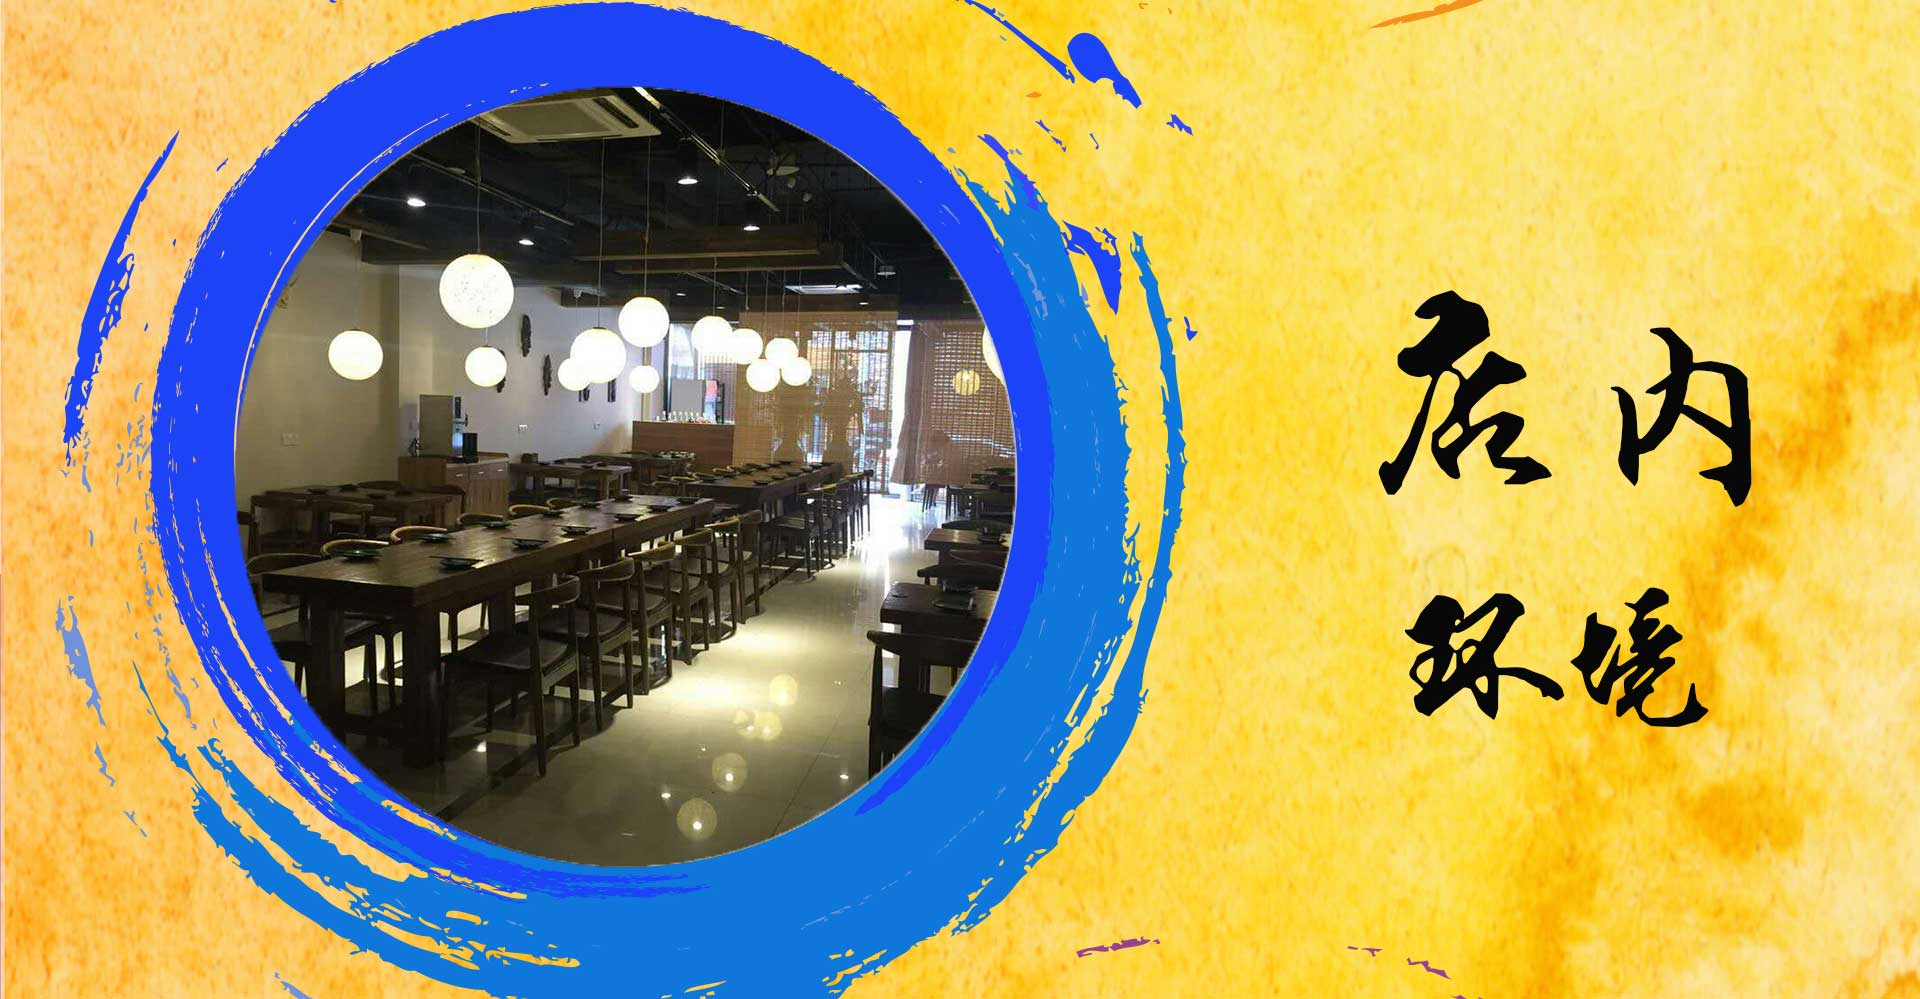
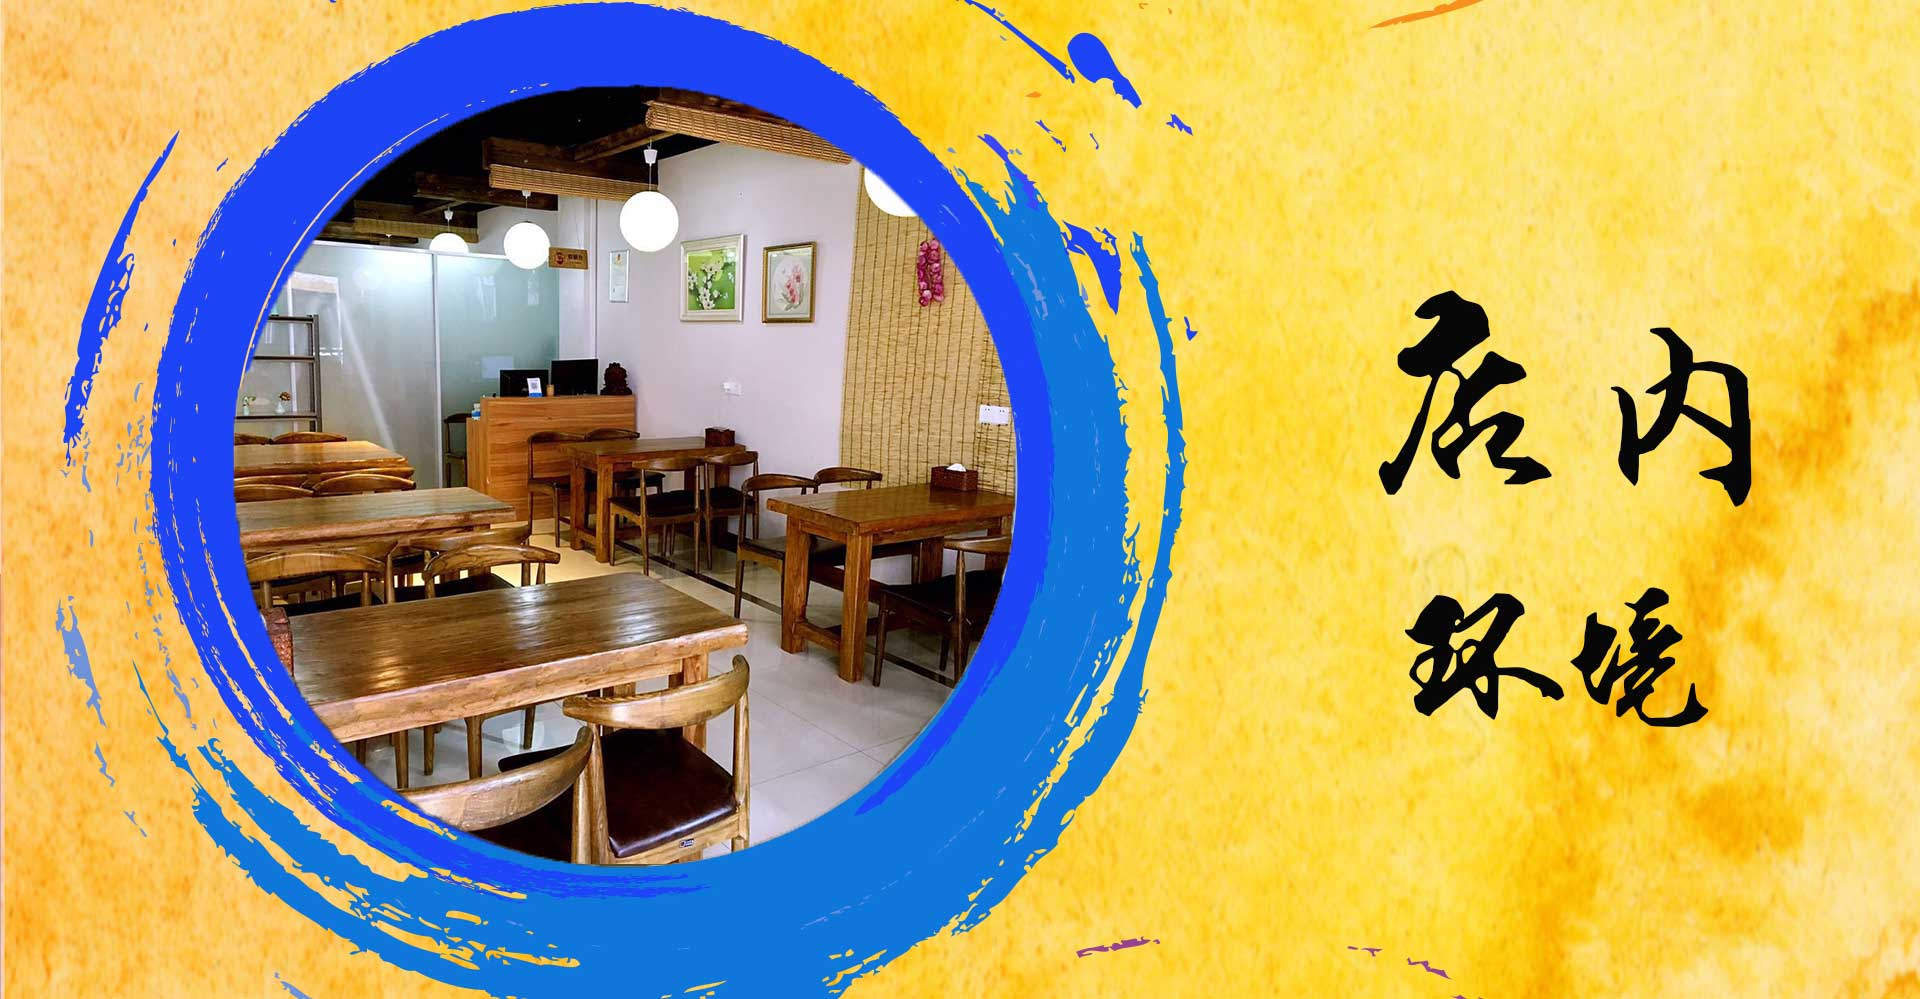
佰饺汇增加店内环境

Changed region(s): [[0.0938, 0.0621, 0.5312, 0.8689]]

diff --git a/WS.Web/Areas/WeiXin/Controllers/ShopController.cs b/WS.Web/Areas/WeiXin/Controllers/ShopController.cs
@@ -23,5 +23,10 @@ namespace WS.Web.Areas.WeiXin.Controllers
         {
             return View();
         }
+
+        public ActionResult Environment()
+        {
+            return View();
+        }
     }
 }
